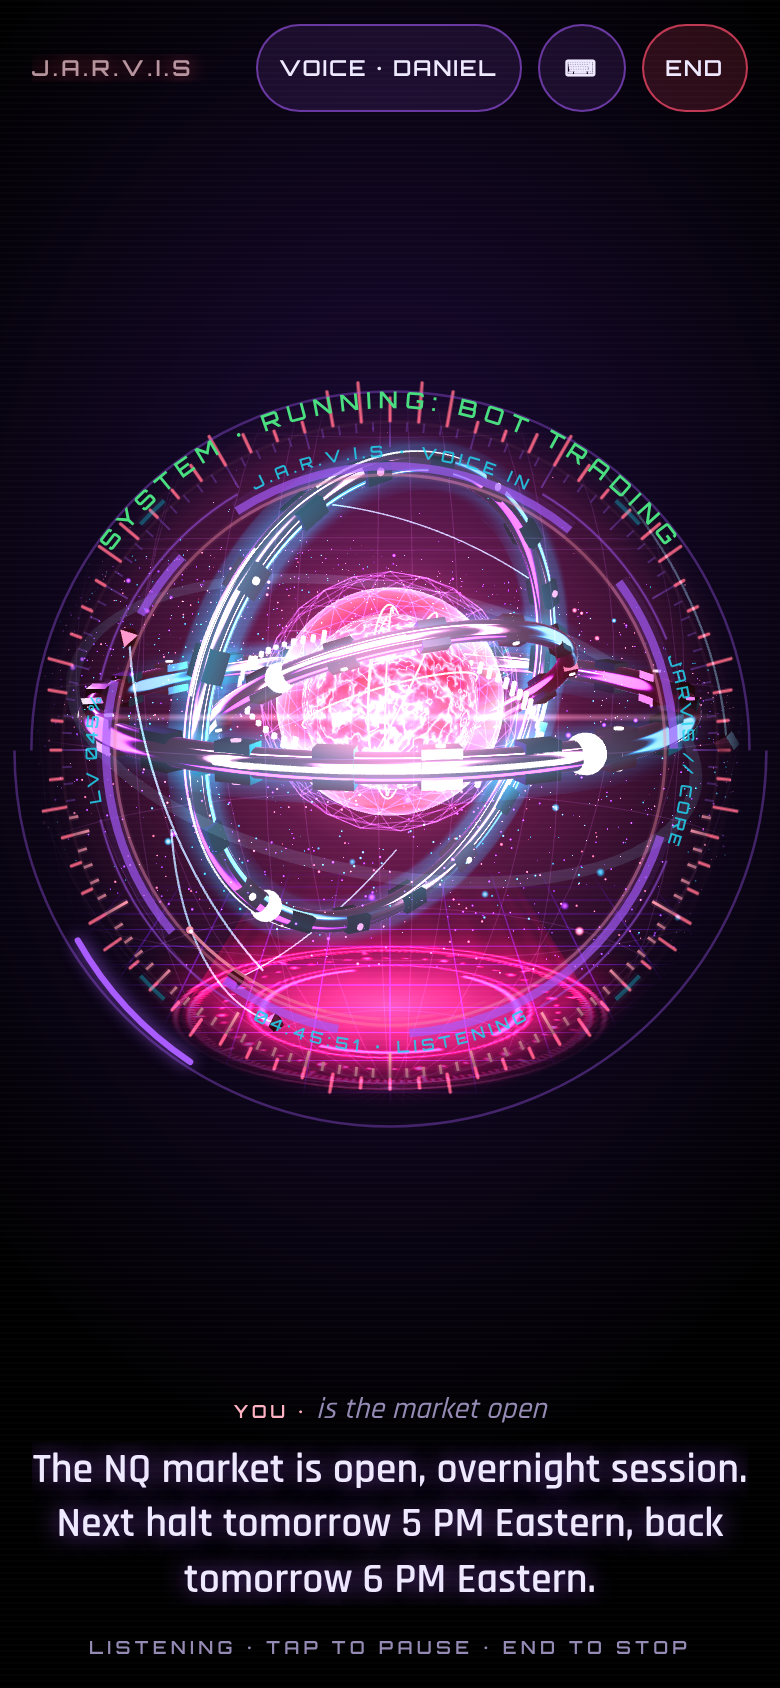
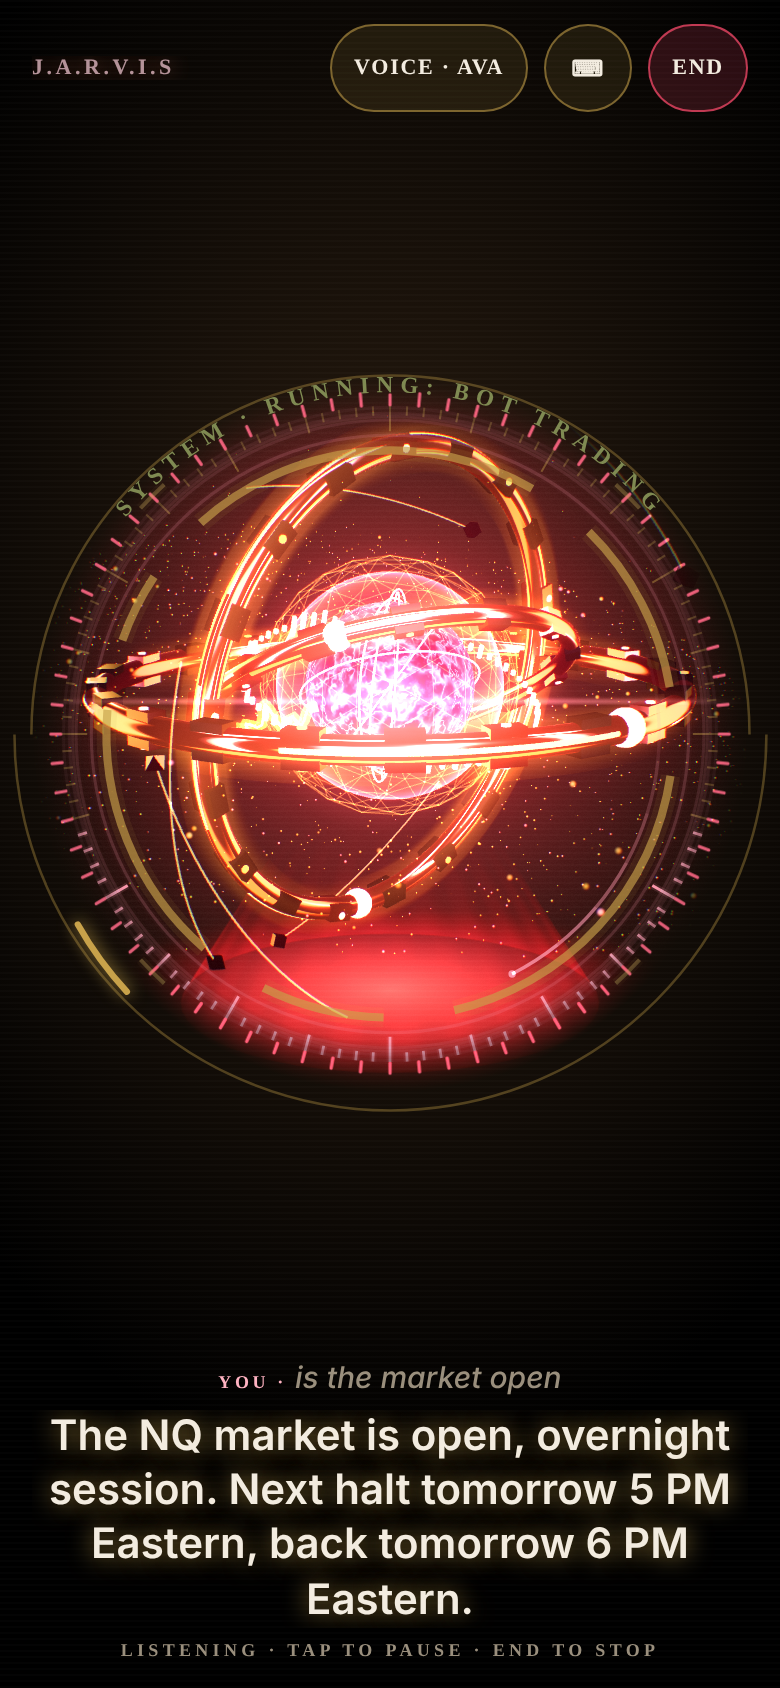
Kalshi AGORA: sw cache k21, balance/tap sizes, test updates for new look

diff --git a/tools/web_public/kalshi/kalshi.css b/tools/web_public/kalshi/kalshi.css
@@ -177,7 +177,7 @@ html.framed main { padding-bottom: calc(176px + env(safe-area-inset-bottom, 0px)
 .nav { width: 44px; height: 44px; border-radius: 50%; border: 1px solid rgba(var(--cr), .6); background: rgba(var(--pr), .7); color: var(--c3); display: grid; place-items: center;
   flex: none; font-size: 18px; line-height: 1; padding: 0 0 2px; }
 .nav:disabled { opacity: .3; }
-.cal { display: grid; grid-template-columns: repeat(7, minmax(0, 1fr)); gap: 3px; margin: 0 -6px; }     /* 44 px days at 375 px */
+.cal { display: grid; grid-template-columns: repeat(7, minmax(0, 1fr)); gap: 2px; margin: 0 -8px; }     /* 44 px days at 375 px */
 .cal .wk, .cal .cw { display: none; }
 @media (min-width: 480px) { .cal { grid-template-columns: repeat(7, minmax(0, 1fr)) minmax(0, 1.15fr); gap: 4px; margin: 0; } .cal .wk, .cal .cw { display: flex; } .cal .wk { display: block; } }
 .wd { font: 600 12px/1.3 var(--fh); color: var(--mut); text-align: center; letter-spacing: .08em; }
@@ -815,12 +815,12 @@ html.framed .note.sample { top: 56px; }
 
 /* ---- the balance: the one big number of the page */
 .hero { padding: 22px 18px 18px; }
-.bal strong { font: 700 clamp(40px, 13vw, 54px)/1.05 var(--fn); letter-spacing: -.01em; color: var(--txt); }
+.bal strong { font: 700 clamp(34px, 10.5vw, 50px)/1.05 var(--fn); letter-spacing: -.01em; color: var(--txt); }
 .bal .ago2 { font-size: 14px; }
 .kpis { gap: 10px; }
 .kpis > div, .stat { background: rgba(255,255,255,.025); border: 1px solid var(--dim2); border-radius: var(--rs); }
 .kpis > div { padding: 12px 12px 13px; }
-.kpis strong { font: 700 20px/1.15 var(--fn); letter-spacing: 0; }
+.kpis strong { font: 700 clamp(15px, 4.6vw, 19px)/1.15 var(--fn); letter-spacing: 0; }
 .kpis em, .stat em { font-size: 14px; }
 .stat strong { font: 700 19px/1.2 var(--fn); }
 .wl { height: 5px; border-radius: 99px; } .wl i { box-shadow: none; }

diff --git a/tools/web_public/kalshi/sw.js b/tools/web_public/kalshi/sw.js
@@ -11,7 +11,7 @@
 //   answered from the copy first, so the page keeps its Orbitron / Rajdhani look and its orb offline.
 const CACHE = 'kalshi-k21';                      // = 'kalshi-' + the ?v= of kalshi.css / kalshi.js (index.html, SHELL): a new version, a new cache
 const NAV_WAIT_MS = 3500;
-const SHELL = ['./', './index.html', './kalshi.css?v=k20', './kalshi.js?v=k20', './kfx.js?v=k19', './korb.js?v=k19', './kit.json'];
+const SHELL = ['./', './index.html', './kalshi.css?v=k21', './kalshi.js?v=k21', './kfx.js?v=k21', './kit.json'];
 const FONTS = ['../jarvis/orbitron.woff2', '../jarvis/rajdhani-400.woff2', '../jarvis/rajdhani-500.woff2', '../jarvis/rajdhani-600.woff2',
   '../jarvis/rajdhani-700.woff2', '../jarvis/three.module.min.js'];   // + the 3D header's three.js (korb.js): offline, and never a hung fetch
 const FONT_URLS = FONTS.map((f) => new URL(f, self.registration.scope).href);

diff --git a/tests/test_kalshi_page.py b/tests/test_kalshi_page.py
@@ -433,7 +433,7 @@ def part_a():
           and 'id="secnav"' in html and all(f'data-go="{g}"' in html for g in ("today", "edge", "perf", "alerts")))
     b = open(os.path.join(ROOT, "tools", "build_web_dashboard.py"), encoding="utf-8").read()
     check("a. the site build publishes every file of kalshi/ (index.html, kalshi.js, kalshi.css, sw.js)",
-          'for app in ("jarvis", "kalshi", "datacity", "mind", "tree", "oracle", "odeon", "fates", "hermes", "prometheus", "tyche", "pantheon", "olympus", "arena", "bridge", "ares", "plutus", "athena", "forum", "labyrinth", "argus", "nemesis", "chronos", "hephaestus", "cities", "kalshicity", "settings", "inbox", "ledger", "journal"):' in b and "for name in os.listdir(src_dir):" in b)
+          re.search(r'for app in \(("[a-z]+", )*"kalshi"(, "[a-z]+")*\):', b) is not None and "for name in os.listdir(src_dir):" in b)
 
 
 # ------------------------------------------------------------------ the browser parts
@@ -578,8 +578,8 @@ def run_browser(url, tmp):
         rb, rtr = realbot(time.time())
         open_("ok", rb)
         body = p.locator("#body").text_content()
-        check("d. LIVE · real money: a calm badge (mint, not red)", " ".join(p.locator("#mode").text_content().split()) == "LIVE · real money"
-              and p.evaluate("getComputedStyle(document.getElementById('mode')).color") == "rgb(141, 255, 216)", (p.inner_text("#mode"), p.evaluate("getComputedStyle(document.getElementById('mode')).color")))
+        check("d. LIVE · real money: a calm badge (AGORA gold/olive, not red)", " ".join(p.locator("#mode").text_content().split()) == "LIVE · real money"
+              and p.evaluate("getComputedStyle(document.getElementById('mode')).color") in ("rgb(224, 194, 122)", "rgb(200, 162, 74)", "rgb(127, 138, 82)"), (p.inner_text("#mode"), p.evaluate("getComputedStyle(document.getElementById('mode')).color")))
         today = dt.datetime.now(NY).date().isoformat()
         tw = sum(1 for x in rtr if x["pnl"] is not None and x["pnl"] > 0 and et_day(x["t"]) == today)
         tl = sum(1 for x in rtr if x["pnl"] is not None and x["pnl"] < 0 and et_day(x["t"]) == today)
@@ -1121,7 +1121,7 @@ def run_browser(url, tmp):
         miss = [b_ for b_ in bad if not (not FONTS and ".woff2" in b_[1])]     # a checkout without Jarvis's fonts: only those may be missing
         check("j. no failed same-site request (nothing missing on the site)", not miss, miss[:5])
         if FONTS:
-            check("j. Jarvis's fonts load from ../jarvis/ (all 200)", fontres and all(st_ == 200 for st_, _ in fontres), fontres[:6])
+            check("j. any Jarvis font that loads from ../jarvis/ is 200 (AGORA uses system fonts)", all(st_ == 200 for st_, _ in fontres), fontres[:6])
         else:
             print("       (this checkout has no tools/web_public/jarvis/*.woff2: the font requests 404 here; strict once the fonts are in)")
         check("j. kalshi.json only ever asked from kalshi-feed (raw, then the API)", not FEED["wrong"], FEED["wrong"][:3])
